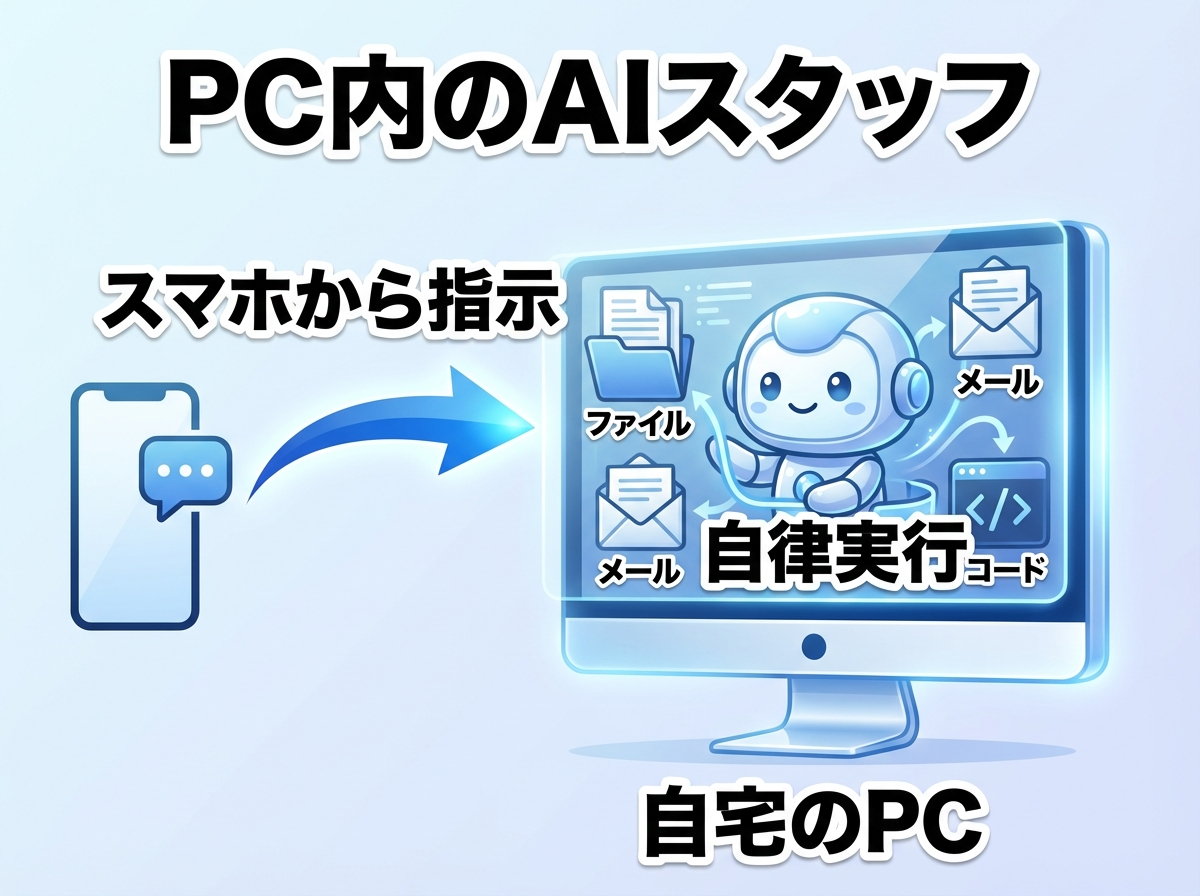
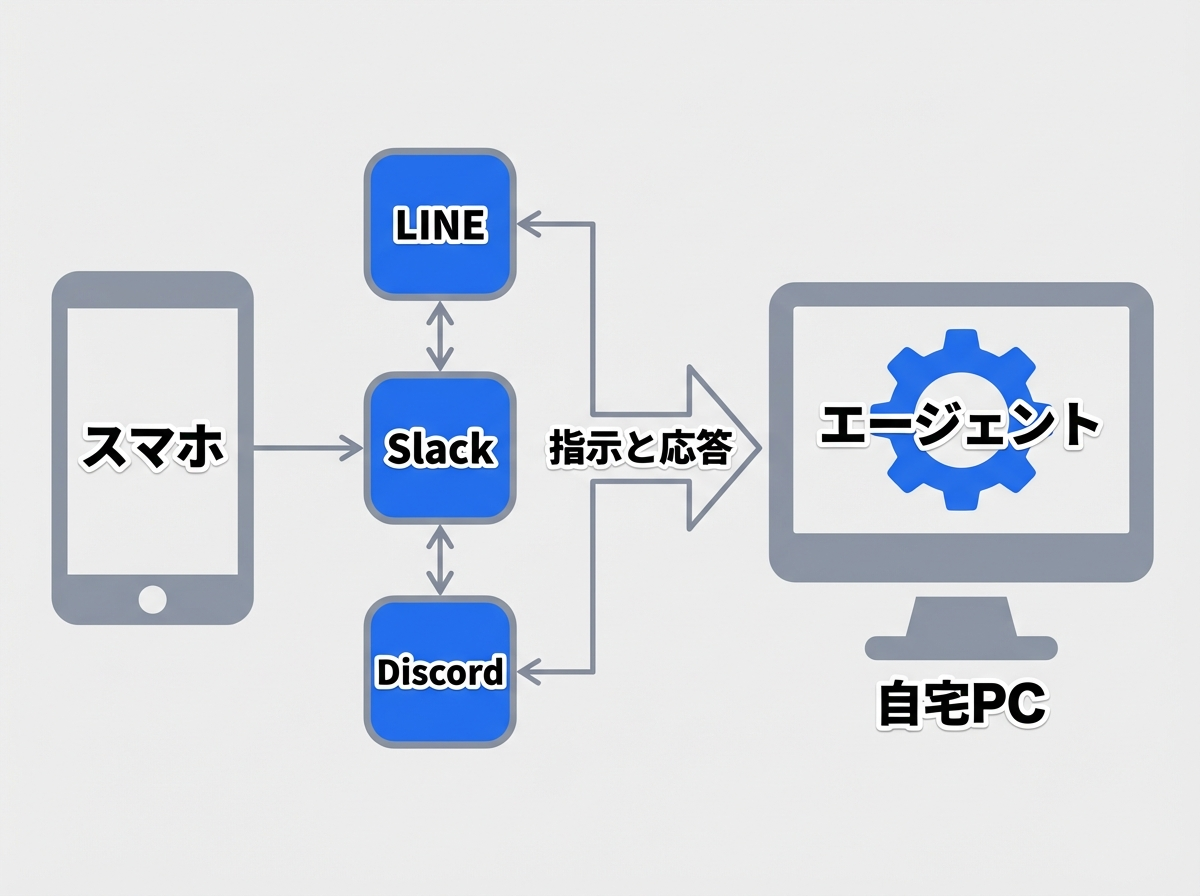
auto:  7 files changed, 73 insertions(+), 50 deletions(-)
自動コミット by launchd

diff --git a/10_projects/OpenClawは怖くない/final/図生成データ.md b/10_projects/OpenClawは怖くない/final/図生成データ.md
@@ -1,7 +1,7 @@
 # 図生成データ
 
 原稿: 原稿v3.md
-生成日: 2026-02-26
+生成日: 2026-02-27
 モデル: gemini-3-pro-image-preview (Nano Banana Pro)
 
 ---
@@ -12,21 +12,21 @@
 
 ENSURE ALL TEXT RENDERED IN THE IMAGE IS JAPANESE ONLY. NO ENGLISH.
 
-Create a clean, modern infographic illustration.
+Create a minimal, flat infographic diagram.
 Aspect ratio: 4:3 (horizontal/landscape).
-Style: concept map
-Color scheme: professional blue and white
-Background: simple light gradient, no busy patterns.
+Style: architecture diagram showing the relationship between user, smartphone, messaging apps, and a home PC running OpenClaw.
+Visual tone: Simple flat design with thin lines (1-2px) and rounded rectangles. No 3D effects, no gradients on shapes, no glossy or photorealistic elements. No human illustrations.
+Color scheme: Main #2563EB (blue) for OpenClaw elements, #9CA3AF (gray) for devices, thin connecting lines in #6B7280.
+Background: solid light gray (#F0F0F0). No patterns, no textures.
 
 Content:
-Central figure is a PC with a friendly AI mascot inside. 
-On the left, a smartphone with a chat bubble icon. 
-An arrow points from the smartphone to the PC, representing remote control.
-Inside the PC, several icons like 'File', 'Email', and 'Code' are being organized by the AI.
+Left side: a simple smartphone icon. Center: arrows flowing through messaging app icons (simple rounded squares labeled LINE, Slack, Discord). Right side: a simple PC/monitor icon with a gear symbol inside representing OpenClaw agent. Arrows show bidirectional flow: user sends command from smartphone → messaging app → PC agent executes → result returns.
 
 Text elements (use these exact Japanese strings):
-The main title must be exactly: "PC内のAIスタッフ"
-Labels must be exactly: "スマホから指示", "自律実行", "自宅のPC"
+The label on the smartphone must be exactly: "スマホ"
+The label on the PC must be exactly: "自宅PC"
+The label inside the PC must be exactly: "エージェント"
+The arrow label must be exactly: "指示と応答"
 
 Text rendering rules:
 - All text in the image must be in Japanese
@@ -36,7 +36,7 @@ Text rendering rules:
 
 ### キャプション
 
-外出先からメッセージを送るだけで、自宅のPC内のAIが自律的に作業をこなす。まるで「もう一人の自分」がPCの中にいるような感覚だ。
+OpenClawはユーザーのPC上で常駐し、スマホのメッセージアプリから指示を受けて自律的に作業を実行する。
 
 ---
 
@@ -46,23 +46,22 @@ Text rendering rules:
 
 ENSURE ALL TEXT RENDERED IN THE IMAGE IS JAPANESE ONLY. NO ENGLISH.
 
-Create a clean, modern infographic illustration.
+Create a minimal, flat infographic diagram.
 Aspect ratio: 4:3 (horizontal/landscape).
-Style: architecture diagram
-Color scheme: vibrant teal and navy
-Background: simple solid color.
+Style: A simple diagram with 5 rounded rectangles arranged in a horizontal row, each containing an icon and a label. A thin line connects all 5 boxes at the top to show they form a unified system.
+Visual tone: Simple flat design with thin lines (1-2px) and rounded rectangles. No 3D effects, no gradients, no glossy elements. Clean geometric icons only (clock, file, puzzle piece, chat bubble, people silhouette).
+Color scheme: All boxes use #2563EB (blue) border with very light blue (#EFF6FF) fill. Icons in #2563EB. Thin connecting line in #9CA3AF.
+Background: solid light gray (#F0F0F0). No patterns, no textures.
 
 Content:
-A central 'OpenClaw' core surrounded by 5 distinct blocks representing its unique features.
-1. A clock icon (Always on)
-2. A filing cabinet icon (Memory)
-3. A puzzle piece icon (Skills)
-4. Diverse chat icons like Slack/LINE (Multi-channel)
-5. Multiple robot heads (Multi-agent)
+Five boxes in a row, evenly spaced. Each box has a simple geometric icon on top and a short Japanese label below. From left to right: (1) clock icon = always-on, (2) file/document icon = persistent memory, (3) puzzle piece icon = skill extension, (4) chat bubble icon = multi-channel, (5) people icon = multi-agent.
 
 Text elements (use these exact Japanese strings):
-The main title must be exactly: "OpenClawの5大特徴"
-Labels must be exactly: "常時稼働", "記憶", "拡張性", "多機能", "複数連携"
+Box 1 label must be exactly: "常時稼働"
+Box 2 label must be exactly: "記憶"
+Box 3 label must be exactly: "スキル"
+Box 4 label must be exactly: "多チャネル"
+Box 5 label must be exactly: "複数体制"
 
 Text rendering rules:
 - All text in the image must be in Japanese
@@ -72,7 +71,7 @@ Text rendering rules:
 
 ### キャプション
 
-従来の「受動的」なAIとは異なり、OpenClawは能動的な常時稼働や長期記憶、スキルの拡張性など、5つの強力な独自機能を備えている。
+OpenClawが従来のAIツールと異なる5つの特徴。常時稼働・記憶の永続化・スキル拡張・マルチチャネル・マルチエージェントを最初から備えている。
 
 ---
 
@@ -82,21 +81,26 @@ Text rendering rules:
 
 ENSURE ALL TEXT RENDERED IN THE IMAGE IS JAPANESE ONLY. NO ENGLISH.
 
-Create a clean, modern infographic illustration.
+Create a minimal, flat infographic diagram.
 Aspect ratio: 4:3 (horizontal/landscape).
-Style: comparison
-Color scheme: alert red and safety green
-Background: simple light gray.
+Style: A two-column layout. Left column has 4 risk items (red), right column has 3 countermeasure items (green). An arrow or shield icon in the center separates them.
+Visual tone: Simple flat design with thin lines (1-2px) and rounded rectangles. No 3D effects, no gradients, no glossy elements. No human illustrations.
+Color scheme: Left column boxes use #EF4444 (red) border with very light red (#FEF2F2) fill. Right column boxes use #10B981 (green) border with very light green (#ECFDF5) fill. Center divider/shield in #6B7280.
+Background: solid light gray (#F0F0F0). No patterns, no textures.
 
 Content:
-Split screen layout. 
-Left side (Red): Risks like a bug icon (Injection) and an unlocked lock (Leakage).
-Right side (Green): Solutions like a shield icon (Security), a box (Dedicated machine), and a refresh icon (Update).
-Arrows showing the transition from risk to safety via these measures.
+Left side header and 4 stacked rounded rectangles each with a short label. Right side header and 3 stacked rounded rectangles each with a short label. A simple shield icon in the center between the two columns.
 
 Text elements (use these exact Japanese strings):
-The main title must be exactly: "リスクと対策"
-Labels must be exactly: "外部攻撃", "情報漏洩", "専用機", "最新版"
+Left header must be exactly: "リスク"
+Left box 1 must be exactly: "強い権限"
+Left box 2 must be exactly: "注入攻撃"
+Left box 3 must be exactly: "攻撃経路"
+Left box 4 must be exactly: "暴走"
+Right header must be exactly: "対策"
+Right box 1 must be exactly: "専用機"
+Right box 2 must be exactly: "攻撃面削減"
+Right box 3 must be exactly: "運用知識"
 
 Text rendering rules:
 - All text in the image must be in Japanese
@@ -106,7 +110,7 @@ Text rendering rules:
 
 ### キャプション
 
-強力な権限を持つゆえのリスクはあるが、専用マシンの導入や適切なセキュリティ設定、こまめなアップデートによって安全に運用できる。
+OpenClawの4つのリスクと3つの対策。専用マシンの用意、攻撃面の最小化、運用知識の習得で安全性を確保できる。
 
 ---
 
@@ -116,22 +120,20 @@ Text rendering rules:
 
 ENSURE ALL TEXT RENDERED IN THE IMAGE IS JAPANESE ONLY. NO ENGLISH.
 
-Create a clean, modern infographic illustration.
+Create a minimal, flat infographic diagram.
 Aspect ratio: 4:3 (horizontal/landscape).
-Style: concept map
-Color scheme: warm orange and purple
-Background: simple light gradient.
+Style: Three large rounded rectangles arranged horizontally, each representing a use case category. Each box contains a simple geometric icon at the top and a label below.
+Visual tone: Simple flat design with thin lines (1-2px) and rounded rectangles. No 3D effects, no gradients, no glossy elements. Clean geometric icons only (clipboard, briefcase, heart).
+Color scheme: Box 1 uses #2563EB (blue) border with light blue (#EFF6FF) fill. Box 2 uses #10B981 (green) border with light green (#ECFDF5) fill. Box 3 uses #F59E0B (amber) border with light amber (#FFFBEB) fill. Icons match their box border color.
+Background: solid light gray (#F0F0F0). No patterns, no textures.
 
 Content:
-Three distinct bubbles showing the three use cases:
-1. Assistant: icons for mail and calendar.
-2. Staff: icons for reports and checking.
-3. Partner: icons for news and hobby (music/tickets).
-A person in the center interacting with these three roles.
+Three equally-sized rounded rectangle cards side by side with generous spacing. Each card has a simple icon centered at the top and a short label centered below it. Left card: clipboard icon for personal assistant. Center card: briefcase icon for AI staff. Right card: heart icon for lifestyle partner.
 
 Text elements (use these exact Japanese strings):
-The main title must be exactly: "OpenClawの活用法"
-Labels must be exactly: "助手", "スタッフ", "パートナー"
+Box 1 label must be exactly: "助手"
+Box 2 label must be exactly: "AI社員"
+Box 3 label must be exactly: "相棒"
 
 Text rendering rules:
 - All text in the image must be in Japanese
@@ -141,4 +143,4 @@ Text rendering rules:
 
 ### キャプション
 
-OpenClawは単なるツールを超え、日々の雑務をこなすアシスタント、業務を代行するスタッフ、そして趣味を支えるパートナーとして生活に溶け込む。
+OpenClawの3つの活用パターン。PC作業の肩代わり、業務を任せるAIスタッフ、趣味や生活を支えるパートナーとして使い分けられる。
